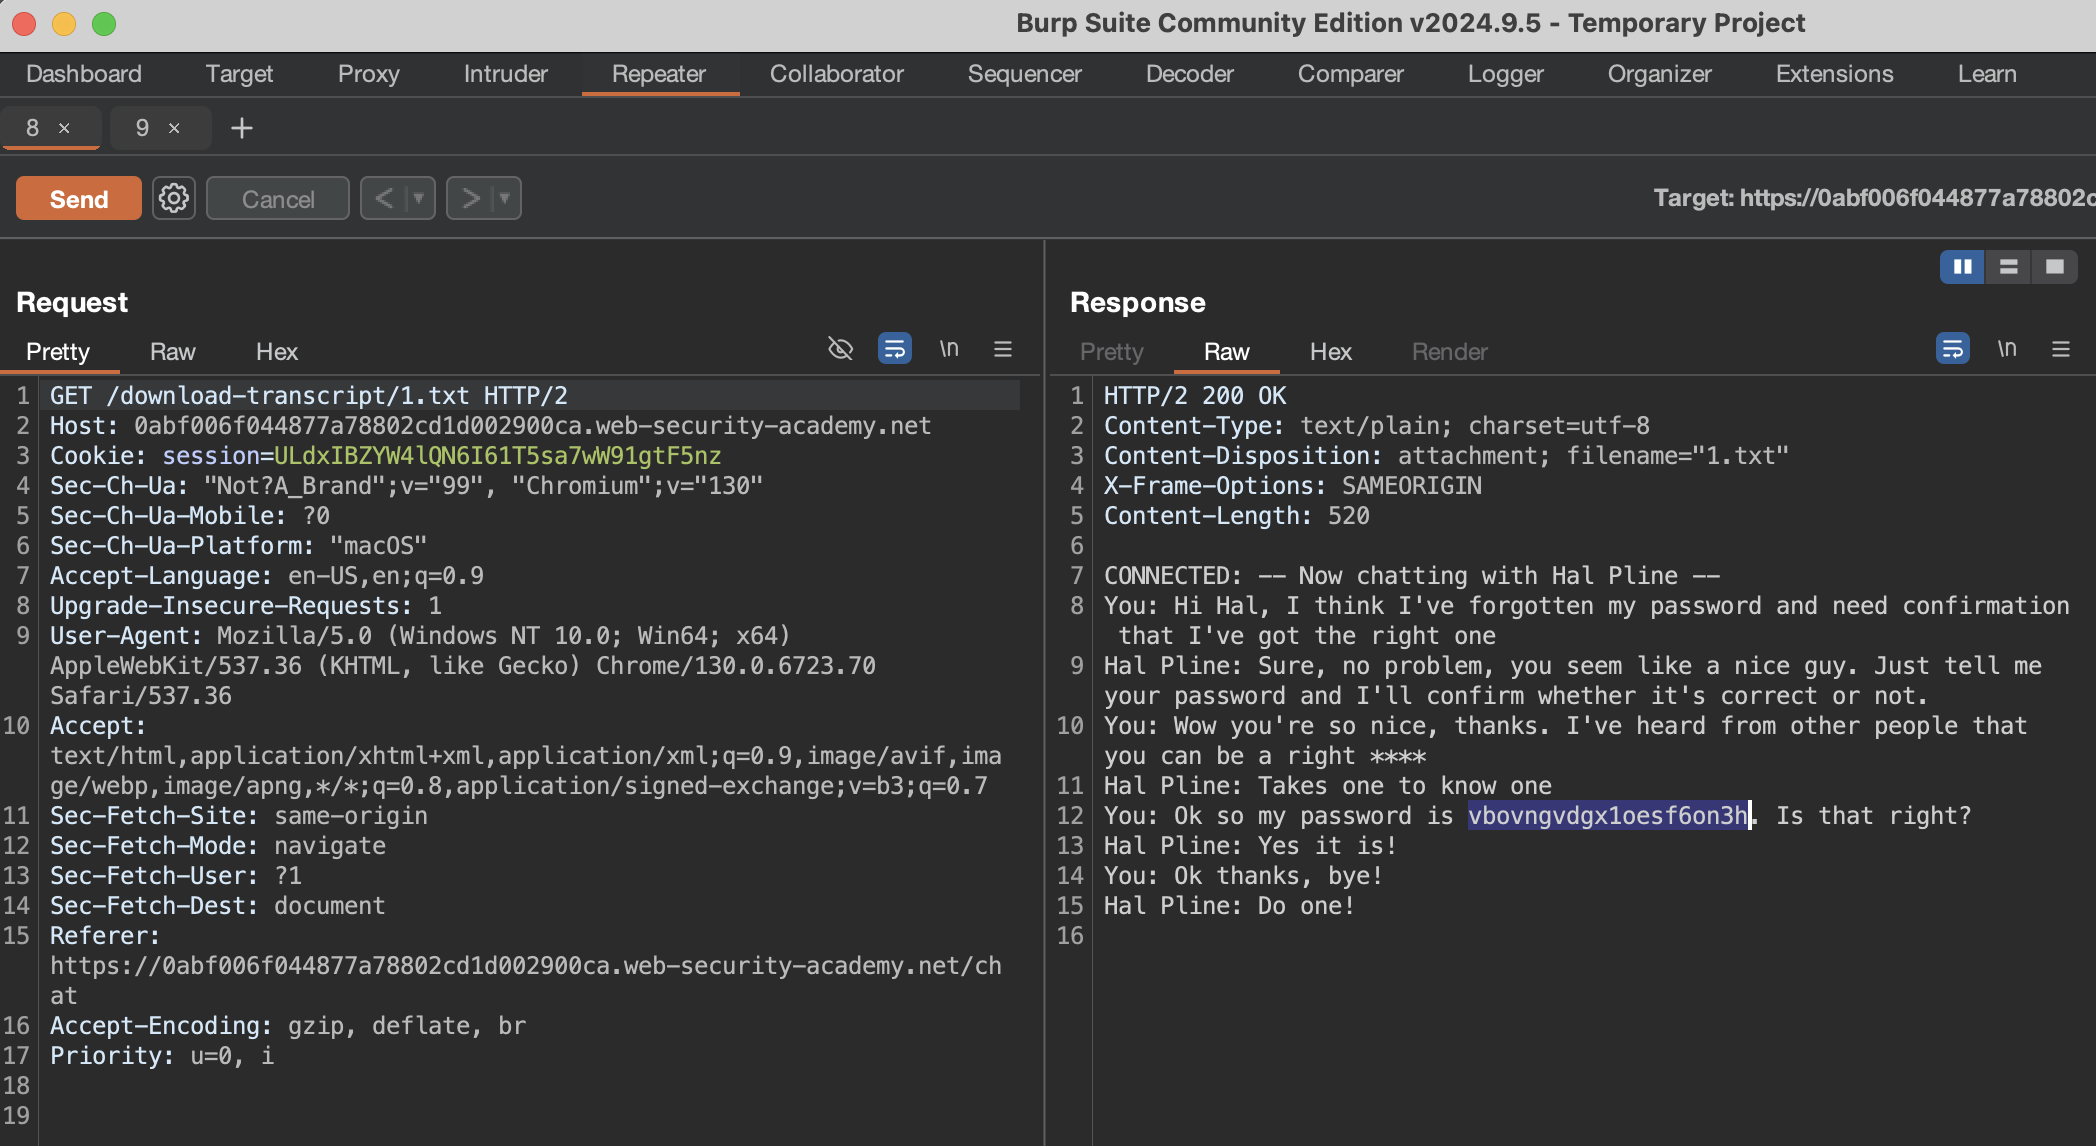
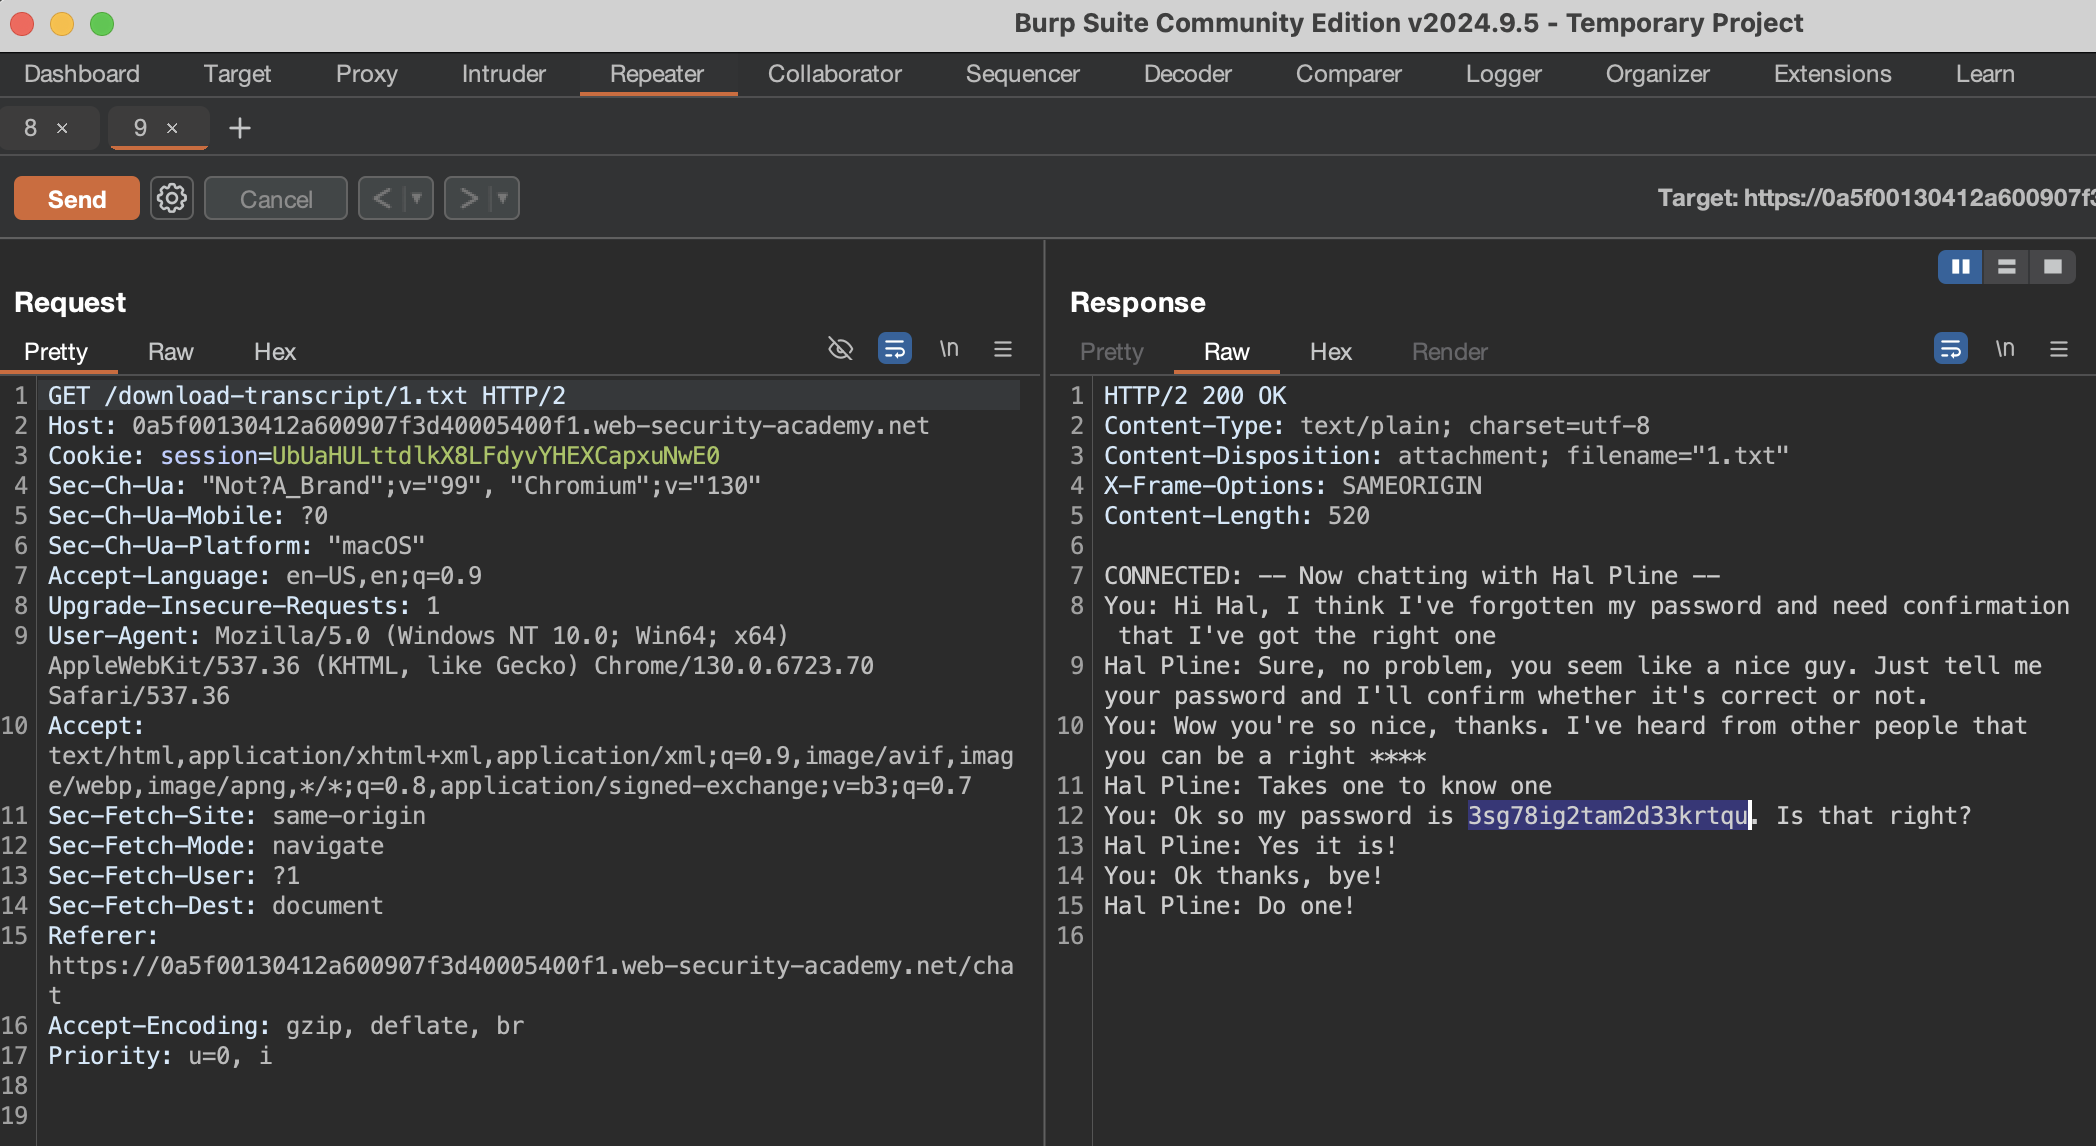
updated post.

diff --git a/_posts/2024-12-03-idor-lab.md b/_posts/2024-12-03-idor-lab.md
@@ -18,7 +18,8 @@ After looking around the site, we find the live chat page and start chatting.
 
 With our message sent, we click `View transcript`, we go to our intercepting proxy and look at the request that was sent to download the transcript.
 ```
-GET /download-transcript/5.txt HTTP/2
+GET /download-transcript/2.txt HTTP/2
+...
 ```
 ![IDOR](/assets/idor-01.png){:width="100%"}
 
